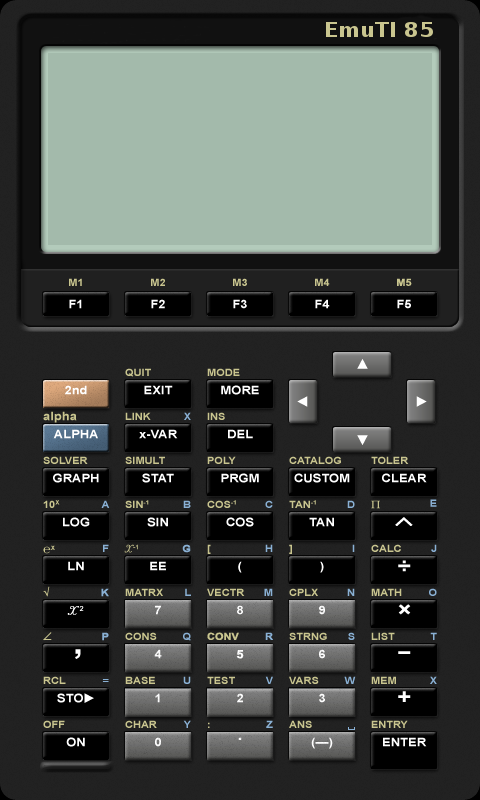
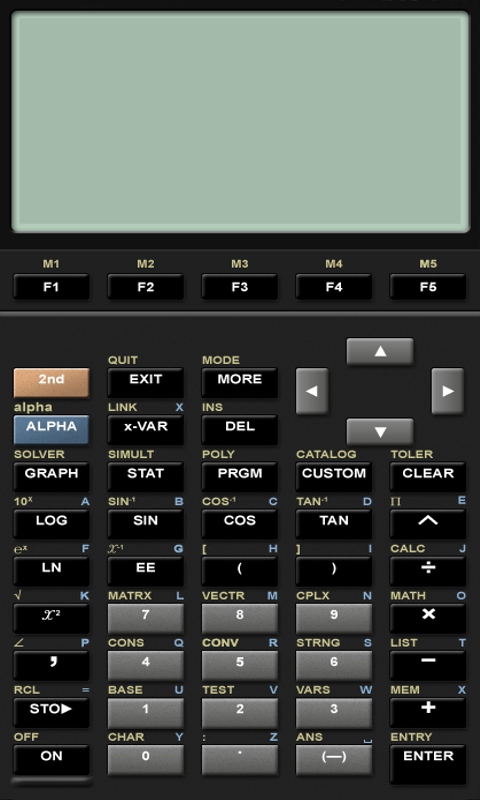
Faceplate tweaks

diff --git a/jni/ATI85/Unix/Unix.c b/jni/ATI85/Unix/Unix.c
@@ -22,7 +22,7 @@
 #define WIDTH       480                   /* Buffer width    */
 #define HEIGHT      800                   /* Buffer height   */
 #define XOFFSET     (WIDTH-128*3)/2       /* Display offset  */
-#define YOFFSET     54                    /* Display offset  */
+#define YOFFSET     24                    /* Display offset  */
 #define PORTRAIT
 
 /* Combination of EFF_* bits */
@@ -56,62 +56,62 @@ struct
   int X,Y,W,H;
 } TouchMap[] =
 {
-  { KBD_RIGHT,  407,380,28,43 },
-  { KBD_LEFT,   289,380,28,43 },
-  { KBD_UP,     333,352,58,25 },
-  { KBD_DOWN,   333,427,58,25 },
+  { KBD_RIGHT,  430,368,35,45 },
+  { KBD_LEFT,   295,368,35,45 },
+  { KBD_UP,     345,337,59,28 },
+  { KBD_DOWN,   345,417,59,28 },
 
-  { KBD_F5,     371,291,65,25 },
-  { KBD_F4,     290,291,65,25 },
-  { KBD_F3,     208,291,65,25 },
-  { KBD_F2,     126,291,65,25 },
-  { KBD_F1,     44,291,65,25 },
+  { KBD_F5,     388,275,77,25 },
+  { KBD_F4,     295,275,77,25 },
+  { KBD_F3,     201,275,77,25 },
+  { KBD_F2,     108,275,77,25 },
+  { KBD_F1,     12,275,77,25 },
 
-  { KBD_CLEAR,  373,467,67,30 },
-  { KBD_POWER,  373,511,67,30 },
-  { KBD_DIV,    373,555,67,30 },
-  { KBD_MUL,    373,599,67,30 },
-  { KBD_MINUS,  373,643,67,30 },
-  { KBD_PLUS,   373,687,67,30 },
-  { KBD_ENTER,  373,731,67,38 },
+  { KBD_CLEAR,  389,462,78,33 },
+  { KBD_POWER,  389,510,78,33 },
+  { KBD_DIV,    389,557,78,33 },
+  { KBD_MUL,    389,604,78,33 },
+  { KBD_MINUS,  389,651,78,33 },
+  { KBD_PLUS,   389,699,78,33 },
+  { KBD_ENTER,  389,746,78,42 },
 
-  { KBD_CUSTOM, 290,467,67,30 },
-  { KBD_TAN,    290,511,67,30 },
-  { KBD_RPARENT,290,555,67,30 },
-  { KBD_9,      290,599,67,30 },
-  { KBD_6,      290,643,67,30 },
-  { KBD_3,      290,687,67,30 },
-  { KBD_SIGN,   290,731,67,30 },
+  { KBD_CUSTOM, 295,462,78,33 },
+  { KBD_TAN,    295,510,78,33 },
+  { KBD_RPARENT,295,557,78,33 },
+  { KBD_9,      295,604,78,33 },
+  { KBD_6,      295,651,78,33 },
+  { KBD_3,      295,699,78,33 },
+  { KBD_SIGN,   295,746,78,33 },
   
-  { KBD_MORE,   207,379,67,30 },
-  { KBD_DEL,    207,423,67,30 },
-  { KBD_PRGM,   207,467,67,30 },
-  { KBD_COS,    207,511,67,30 },
-  { KBD_LPARENT,207,555,67,30 },
-  { KBD_8,      207,599,67,30 },
-  { KBD_5,      207,643,67,30 },
-  { KBD_2,      207,687,67,30 },
-  { KBD_DOT,    207,731,67,30 },
+  { KBD_MORE,   203,368,78,33 },
+  { KBD_DEL,    203,415,78,33 },
+  { KBD_PRGM,   203,462,78,33 },
+  { KBD_COS,    203,510,78,33 },
+  { KBD_LPARENT,203,557,78,33 },
+  { KBD_8,      203,604,78,33 },
+  { KBD_5,      203,651,78,33 },
+  { KBD_2,      203,699,78,33 },
+  { KBD_DOT,    203,746,78,33 },
 
-  { KBD_EXIT,   124,379,67,30 },
-  { KBD_XVAR,   124,423,67,30 },
-  { KBD_STAT,   124,467,67,30 },
-  { KBD_SIN,    124,511,67,30 },
-  { KBD_EE,     124,555,67,30 },
-  { KBD_7,      124,599,67,30 },
-  { KBD_4,      124,643,67,30 },
-  { KBD_1,      124,687,67,30 },
-  { KBD_0,      124,731,67,30 },
+  { KBD_EXIT,   106,368,78,33 },
+  { KBD_XVAR,   106,415,78,33 },
+  { KBD_STAT,   106,462,78,33 },
+  { KBD_SIN,    106,510,78,33 },
+  { KBD_EE,     106,557,78,33 },
+  { KBD_7,      106,604,78,33 },
+  { KBD_4,      106,651,78,33 },
+  { KBD_1,      106,699,78,33 },
+  { KBD_0,      106,746,78,33 },
 
-  { KBD_2ND,    41,379,67,30 },
-  { KBD_ALPHA,  41,423,67,30 },
-  { KBD_GRAPH,  41,467,67,30 },
-  { KBD_LOG,    41,511,67,30 },
-  { KBD_LN,     41,555,67,30 },
-  { KBD_SQR,    41,599,67,30 },
-  { KBD_COMMA,  41,643,67,30 },
-  { KBD_STO,    41,687,67,30 },
-  { KBD_ON,     41,731,67,30 },
+  { KBD_2ND,    12,368,78,33 },
+  { KBD_ALPHA,  12,415,78,33 },
+  { KBD_GRAPH,  12,462,78,33 },
+  { KBD_LOG,    12,510,78,33 },
+  { KBD_LN,     12,557,78,33 },
+  { KBD_SQR,    12,604,78,33 },
+  { KBD_COMMA,  12,651,78,33 },
+  { KBD_STO,    12,699,78,33 },
+  { KBD_ON,     12,746,78,33 },
 
   { 0,0,0,0,0 }
 };

diff --git a/jni/EMULib/ImageMux.h b/jni/EMULib/ImageMux.h
@@ -101,7 +101,7 @@
 
 #define BPP32
 #define pixel           unsigned int
-#define PIXEL(R,G,B)    (pixel)(0xff000000|((int)R<<16)|((int)G<<8)|B)
+#define PIXEL(R,G,B)    (pixel)(0xff000000|((int)B<<16)|((int)G<<8)|R)
 #define RMASK           0xFF0000
 #define GMASK           0x00FF00
 #define BMASK           0x0000FF
